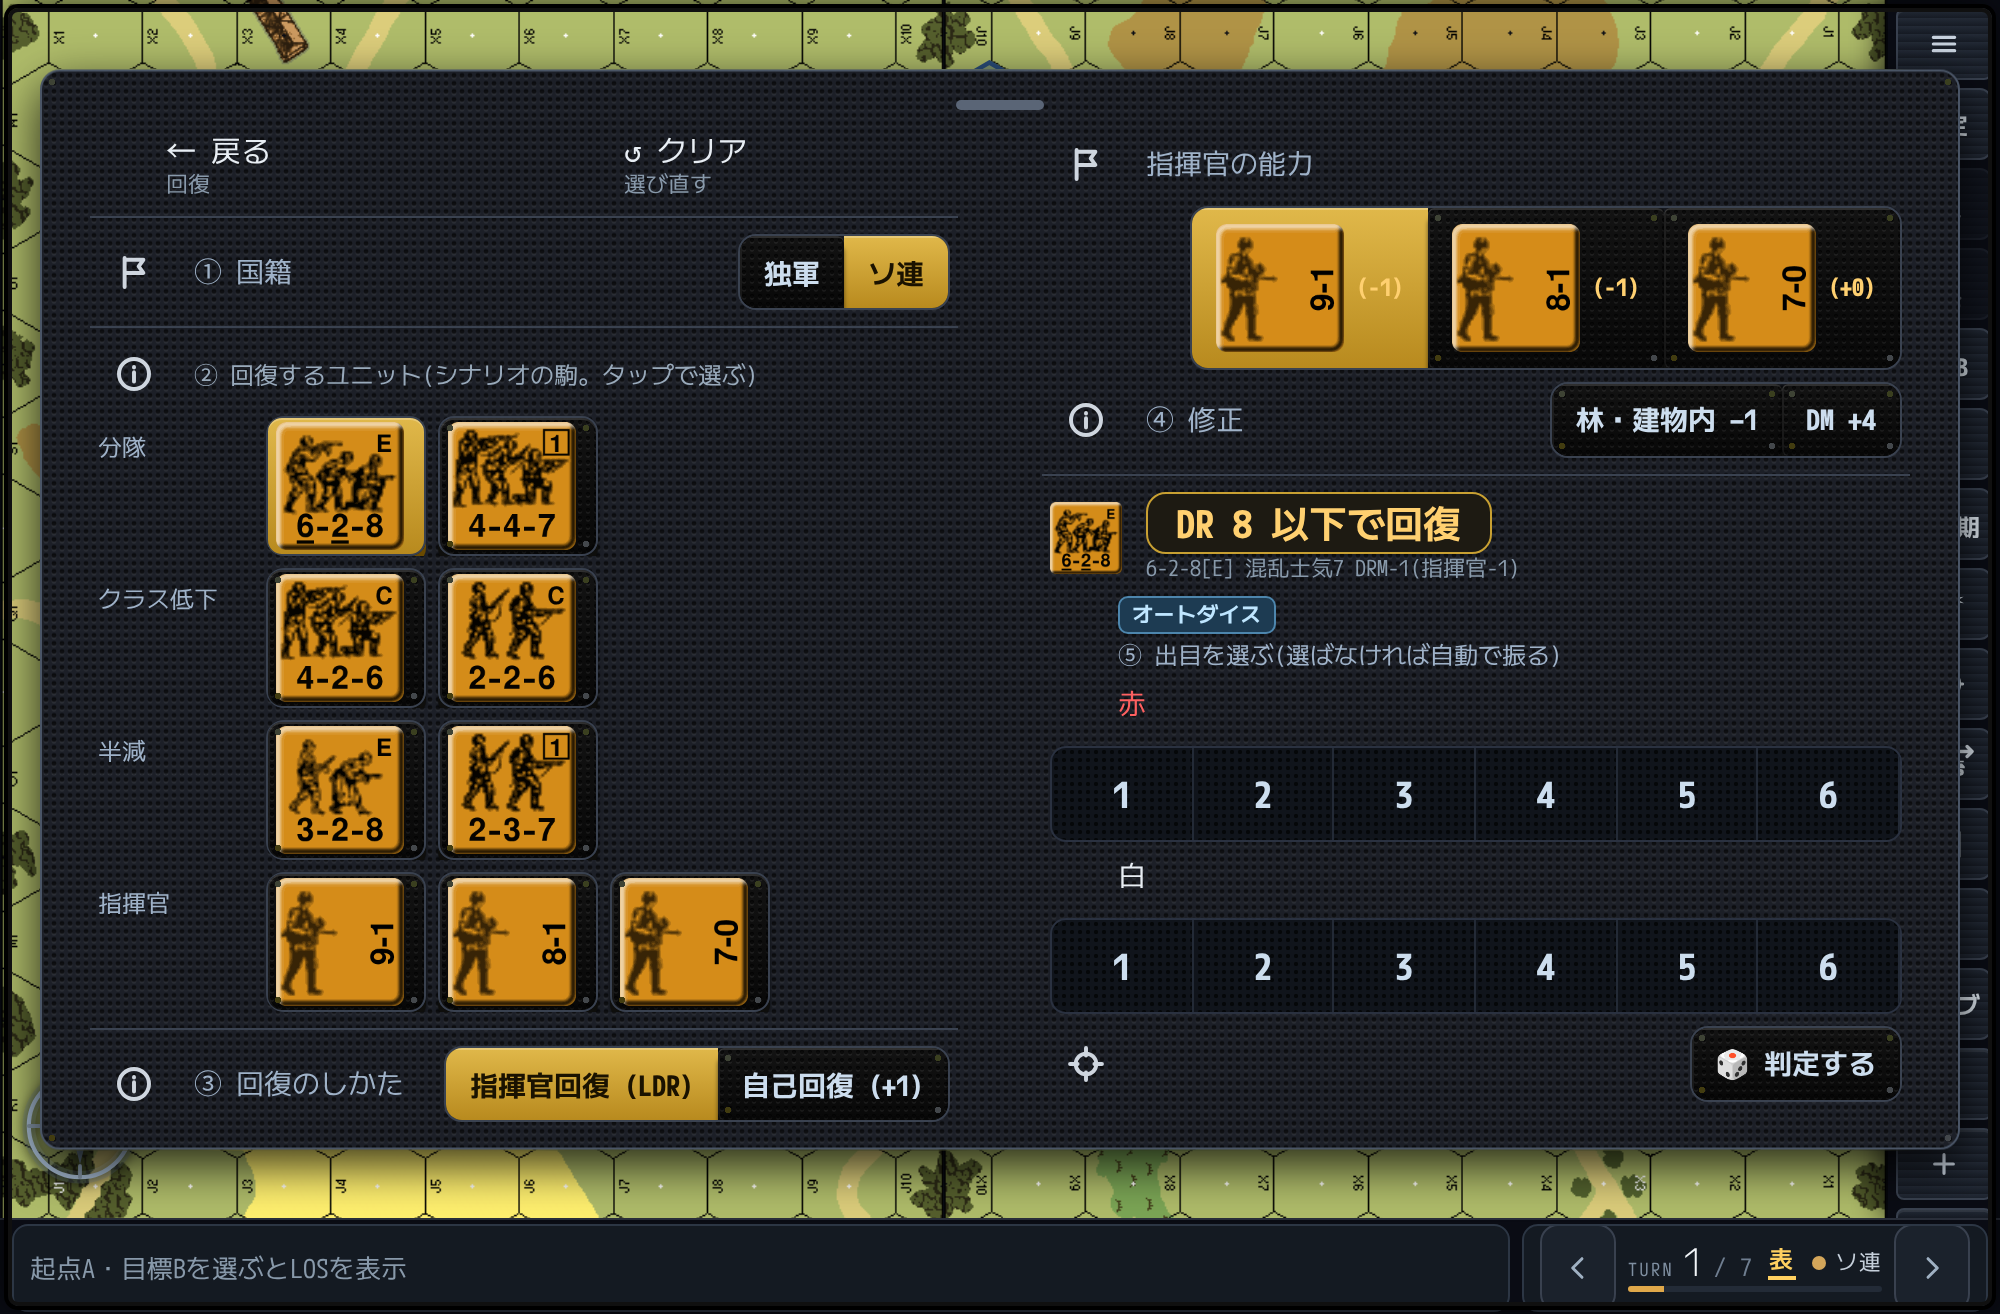
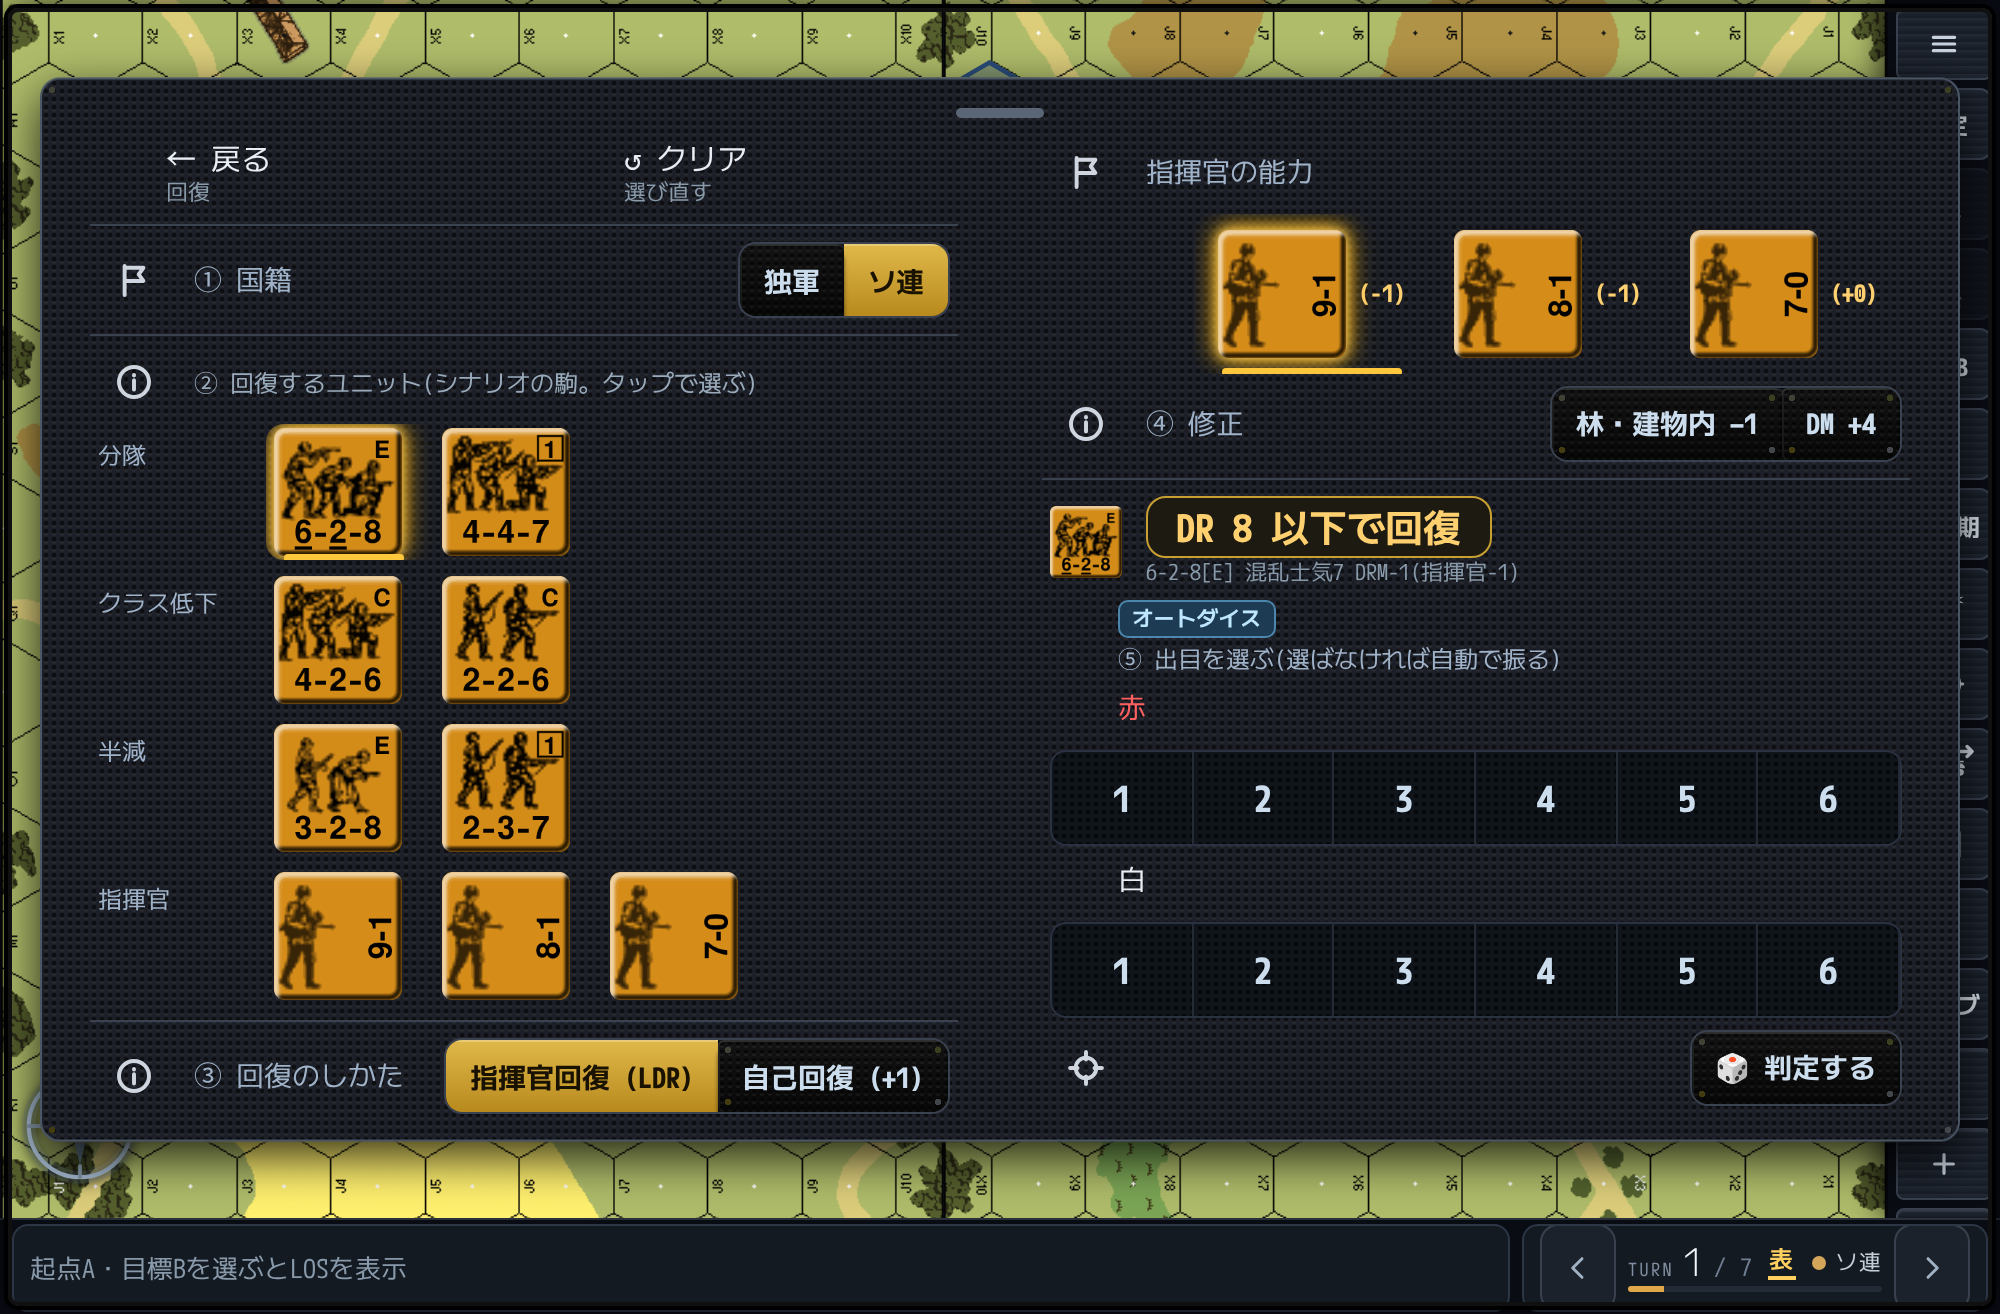
sample: 枠なし(選択=金の光+下線)
Claude-Session: https://claude.ai/code/session_019kMnQfU7wx5SUokXazrXcg

diff --git a/dev/ctronly.js b/dev/ctronly.js
@@ -4,5 +4,5 @@ await p.goto('file://'+require('path').resolve(__dirname,'../index.html'),{timeo
 const r=await p.evaluate(async()=>{const W=ms=>new Promise(r=>setTimeout(r,ms));S.scen=S.scen||{};S.scen.sel='S24';for(var i=0;i<4;i++){try{Draw();}catch(e){}await W(1500);}await btEnsureGraph();var o=[];
 try{nmRrOpen('rally');await W(1500);nmRrNat('SOV');await W(800);var G=nmRrGroups('SOV');nmRrPick('mmc',G.base[0]);await W(1000);}catch(e){o.push(String(e));}return o;});
 const P=process.argv[2];await p.waitForTimeout(500);await p.screenshot({path:P+'_0.png'});
-await p.evaluate(()=>{var PX=64;[...document.querySelectorAll('#btRm button')].forEach(function(x){var t=x.textContent.trim().replace(/\s+/g,' ');var m=/^✓?\s*(\d-\d-\d(?:\[[^\]]+\])?(?:\(HS\))?|\d-\d)\s*(\([+\-−]\d\))?/.exec(t);if(!m||!x.querySelector('img,svg,canvas,span'))return;var lb=m[1],nat=NM_RR&&NM_RR.nat||'SOV',id=nmCtrUid(nat,lb)||nmCtrUid('SOV',lb);var c=id&&nmCtrChip(id,PX);if(!c)return;var on=/✓/.test(t)||x.classList.contains('on');var mod=m[2]?'<span style="font-size:12px;color:#ffd070;margin-left:4px">'+m[2]+'</span>':'';x.innerHTML='<span style="display:flex;align-items:center;justify-content:center;gap:2px">'+c+mod+'</span>';x.style.height='auto';x.style.minWidth='0';x.style.padding='6px 10px';x.style.justifyContent='center';});});
+await p.evaluate(()=>{var PX=64;[...document.querySelectorAll('#btRm button')].forEach(function(x){var t=x.textContent.trim().replace(/\s+/g,' ');var m=/^✓?\s*(\d-\d-\d(?:\[[^\]]+\])?(?:\(HS\))?|\d-\d)\s*(\([+\-−]\d\))?/.exec(t);if(!m||!x.querySelector('img,svg,canvas,span'))return;var lb=m[1],nat=NM_RR&&NM_RR.nat||'SOV',id=nmCtrUid(nat,lb)||nmCtrUid('SOV',lb);var c=id&&nmCtrChip(id,PX);if(!c)return;var on=/✓/.test(t)||x.classList.contains('on');var mod=m[2]?'<span style="font-size:12px;color:#ffd070;margin-left:4px">'+m[2]+'</span>':'';x.innerHTML='<span style="display:flex;align-items:center;justify-content:center;gap:2px">'+c+mod+'</span>';var cl='background:none!important;border:0!important;box-shadow:none!important;outline:0!important;background-image:none!important;height:auto;min-width:0;padding:4px 6px;justify-content:center;flex:0 0 auto;'+(on?'':'');x.style.cssText+=';'+cl;x.classList.add('ctrOnly');if(on)x.classList.add('ctrSel');var par=x.parentElement;if(par&&[...par.children].every(function(k){return k.tagName==='BUTTON';})){par.style.cssText+=';background:none!important;border:0!important;box-shadow:none!important;gap:6px;';}});var st=document.createElement('style');st.textContent='.ctrOnly::before,.ctrOnly::after{display:none!important}.ctrOnly{filter:none!important}.ctrOnly.ctrSel img,.ctrOnly.ctrSel svg,.ctrOnly.ctrSel canvas{filter:drop-shadow(0 0 3px #ffd36a) drop-shadow(0 0 6px #ffb400)}.ctrOnly.ctrSel{position:relative}.ctrOnly.ctrSel::after{content:"";display:block!important;position:absolute;left:12%;right:12%;bottom:-1px;height:4px;border-radius:2px;background:#ffc83c}';document.head.appendChild(st);});
 await p.waitForTimeout(600);await p.screenshot({path:P+'_1.png'});console.log(JSON.stringify(E),r);await b.close();})();
